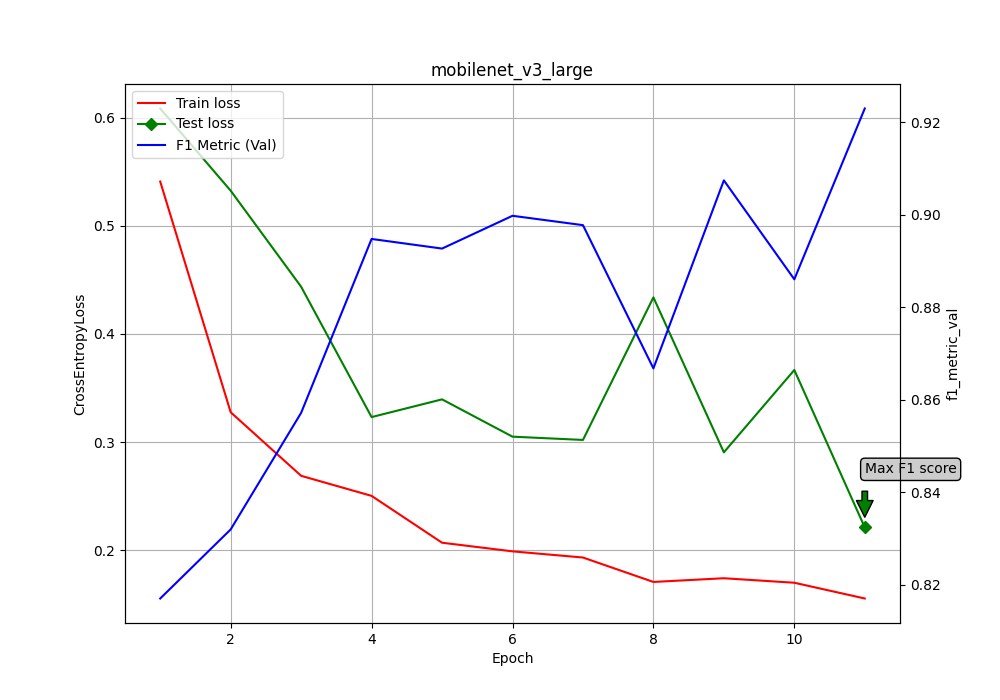
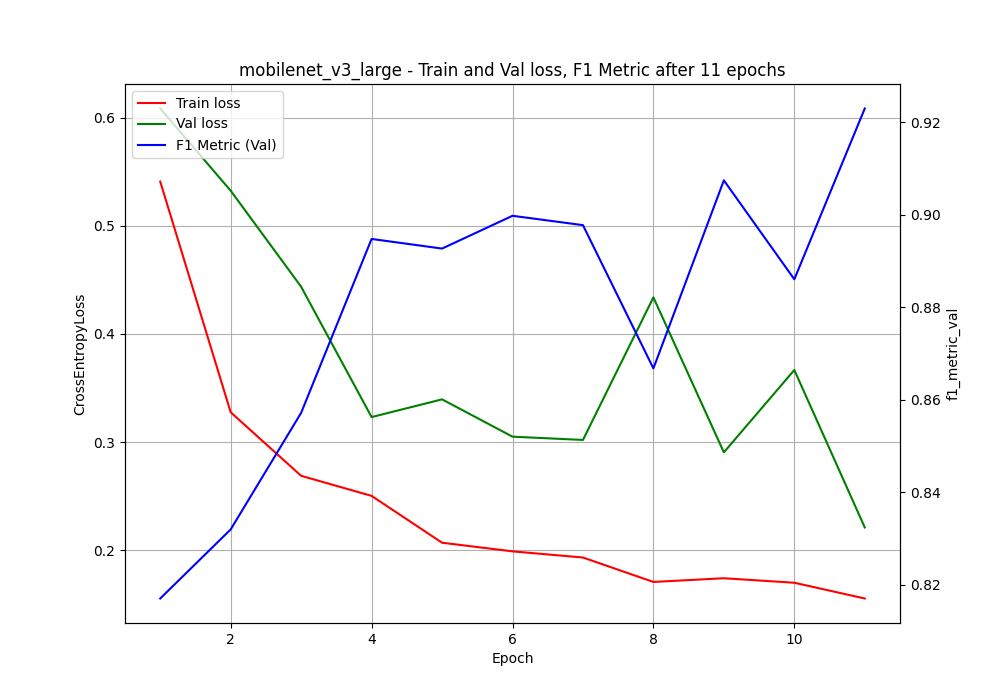
plots added; commented out annotations;

Changed region(s): [[0.248, 0.09, 0.775, 0.12], [0.837, 0.63, 0.961, 0.75], [0.155, 0.15, 0.248, 0.18]]

diff --git a/src/utils/models.py b/src/utils/models.py
@@ -120,7 +120,7 @@ class Models:
         f1_metric_val = checkpoint["f1_metric_val"]
 
         plt.figure(figsize=(10, 7))  # type: ignore
-        marker_on = [losses_val.index(min(losses_val))]
+        # marker_on = [losses_val.index(min(losses_val))]
 
         # Create the first plot with the left y-axis
         fig, ax1 = plt.subplots(figsize=(10, 7))  # type: ignore
@@ -135,20 +135,21 @@ class Models:
         ax1.plot(  # type: ignore
             np.arange(1, len(losses_val) + 1),  # type: ignore
             losses_val,
-            "-gD",
+            "-g",
+            # "-gD",
             label="Val loss",
-            markevery=marker_on,
+            # markevery=marker_on,
         )
 
         # Annotate the minimum loss point
-        bbox = dict(boxstyle="round", fc="0.8")
-        ax1.annotate(  # type: ignore
-            text=f"Max F1 score after {f1_metric_val.index(max(f1_metric_val))+1} epochs, equals: {max(f1_metric_val)}",
-            xy=(losses_val.index(min(losses_val)) + 1, min(losses_val)),
-            xytext=(losses_val.index(min(losses_val)) + 1, min(losses_val) + 0.05),
-            arrowprops=dict(facecolor="green", shrink=0.2),
-            bbox=bbox,
-        )
+        # bbox = dict(boxstyle="round", fc="0.8")
+        # ax1.annotate(  # type: ignore
+        #     text=f"Max F1 score after {f1_metric_val.index(max(f1_metric_val))+1} epochs, equals: {max(f1_metric_val)}",
+        #     xy=(losses_val.index(min(losses_val)) + 1, min(losses_val)),
+        #     xytext=(losses_val.index(min(losses_val)) + 1, min(losses_val) + 0.05),
+        #     arrowprops=dict(facecolor="green", shrink=0.2),
+        #     bbox=bbox,
+        # )
 
         ax1.set_xlabel("Epoch")  # type: ignore
         ax1.set_ylabel("CrossEntropyLoss")  # type: ignore
@@ -169,5 +170,7 @@ class Models:
         lines2, labels2 = ax2.get_legend_handles_labels()
         ax1.legend(lines1 + lines2, labels1 + labels2, loc="upper left")  # type: ignore
 
-        plt.title(f"Train and Val loss, F1 Metric after {len(losses_train)} epochs")  # type: ignore
+        plt.title(
+            f"{name_of_the_net} - Train and Val loss, F1 Metric after {len(losses_train)} epochs"
+        )  # type: ignore
         plt.savefig(str(self.root_folder) + f"/data/images/{name_of_the_net}.png")  # type: ignore

diff --git a/README.md b/README.md
@@ -37,8 +37,17 @@ The models used in this project are:
 
 The learning curves for two models are down below:
 
-<img src="data/images/mobilenet_v3_large.png" width="700" />
-<img src="data/images/shufflenet_v2_x2_0.png" width="700" />
+<table>
+  <tr>
+    <td><img src="data/images/efficientnet_b0.png" width="700"></td>
+    <td><img src="data/images/efficientnet_b1.png" width="700"></td>
+  </tr>
+  <tr>
+    <td><img src="data/images/mobilenet_v3_large.png" width="700"></td>
+    <td><img src="data/images/shufflenet_v2_x2_0.png" width="700"></td>
+  </tr>
+</table>
+
 
 ### Ensembles and Weights
 
@@ -46,7 +55,7 @@ In this project, an **ensemble learning** approach has been used with **weighted
 
 ### Selection of Final Models
 
-The final four models for the ensemble were selected through an automated process of testing every combination of the models with weight powers (in the weighted voting scheme) ranging from 1 to 10. The combination with the highest **F1 score** on the test set was chosen as the final ensemble. **The first four models shown in the table above have made their way to the final ensemble.**
+The final four models for the ensemble were selected through an automated process of testing every combination of the models with weight powers (in the weighted voting scheme) ranging from 1 to 10. The combination with the highest **F1 score** on the test set was chosen as the final ensemble. **The models whose training curves are shown above have made their way to the final ensemble.**
 
 ### Transformations
 
